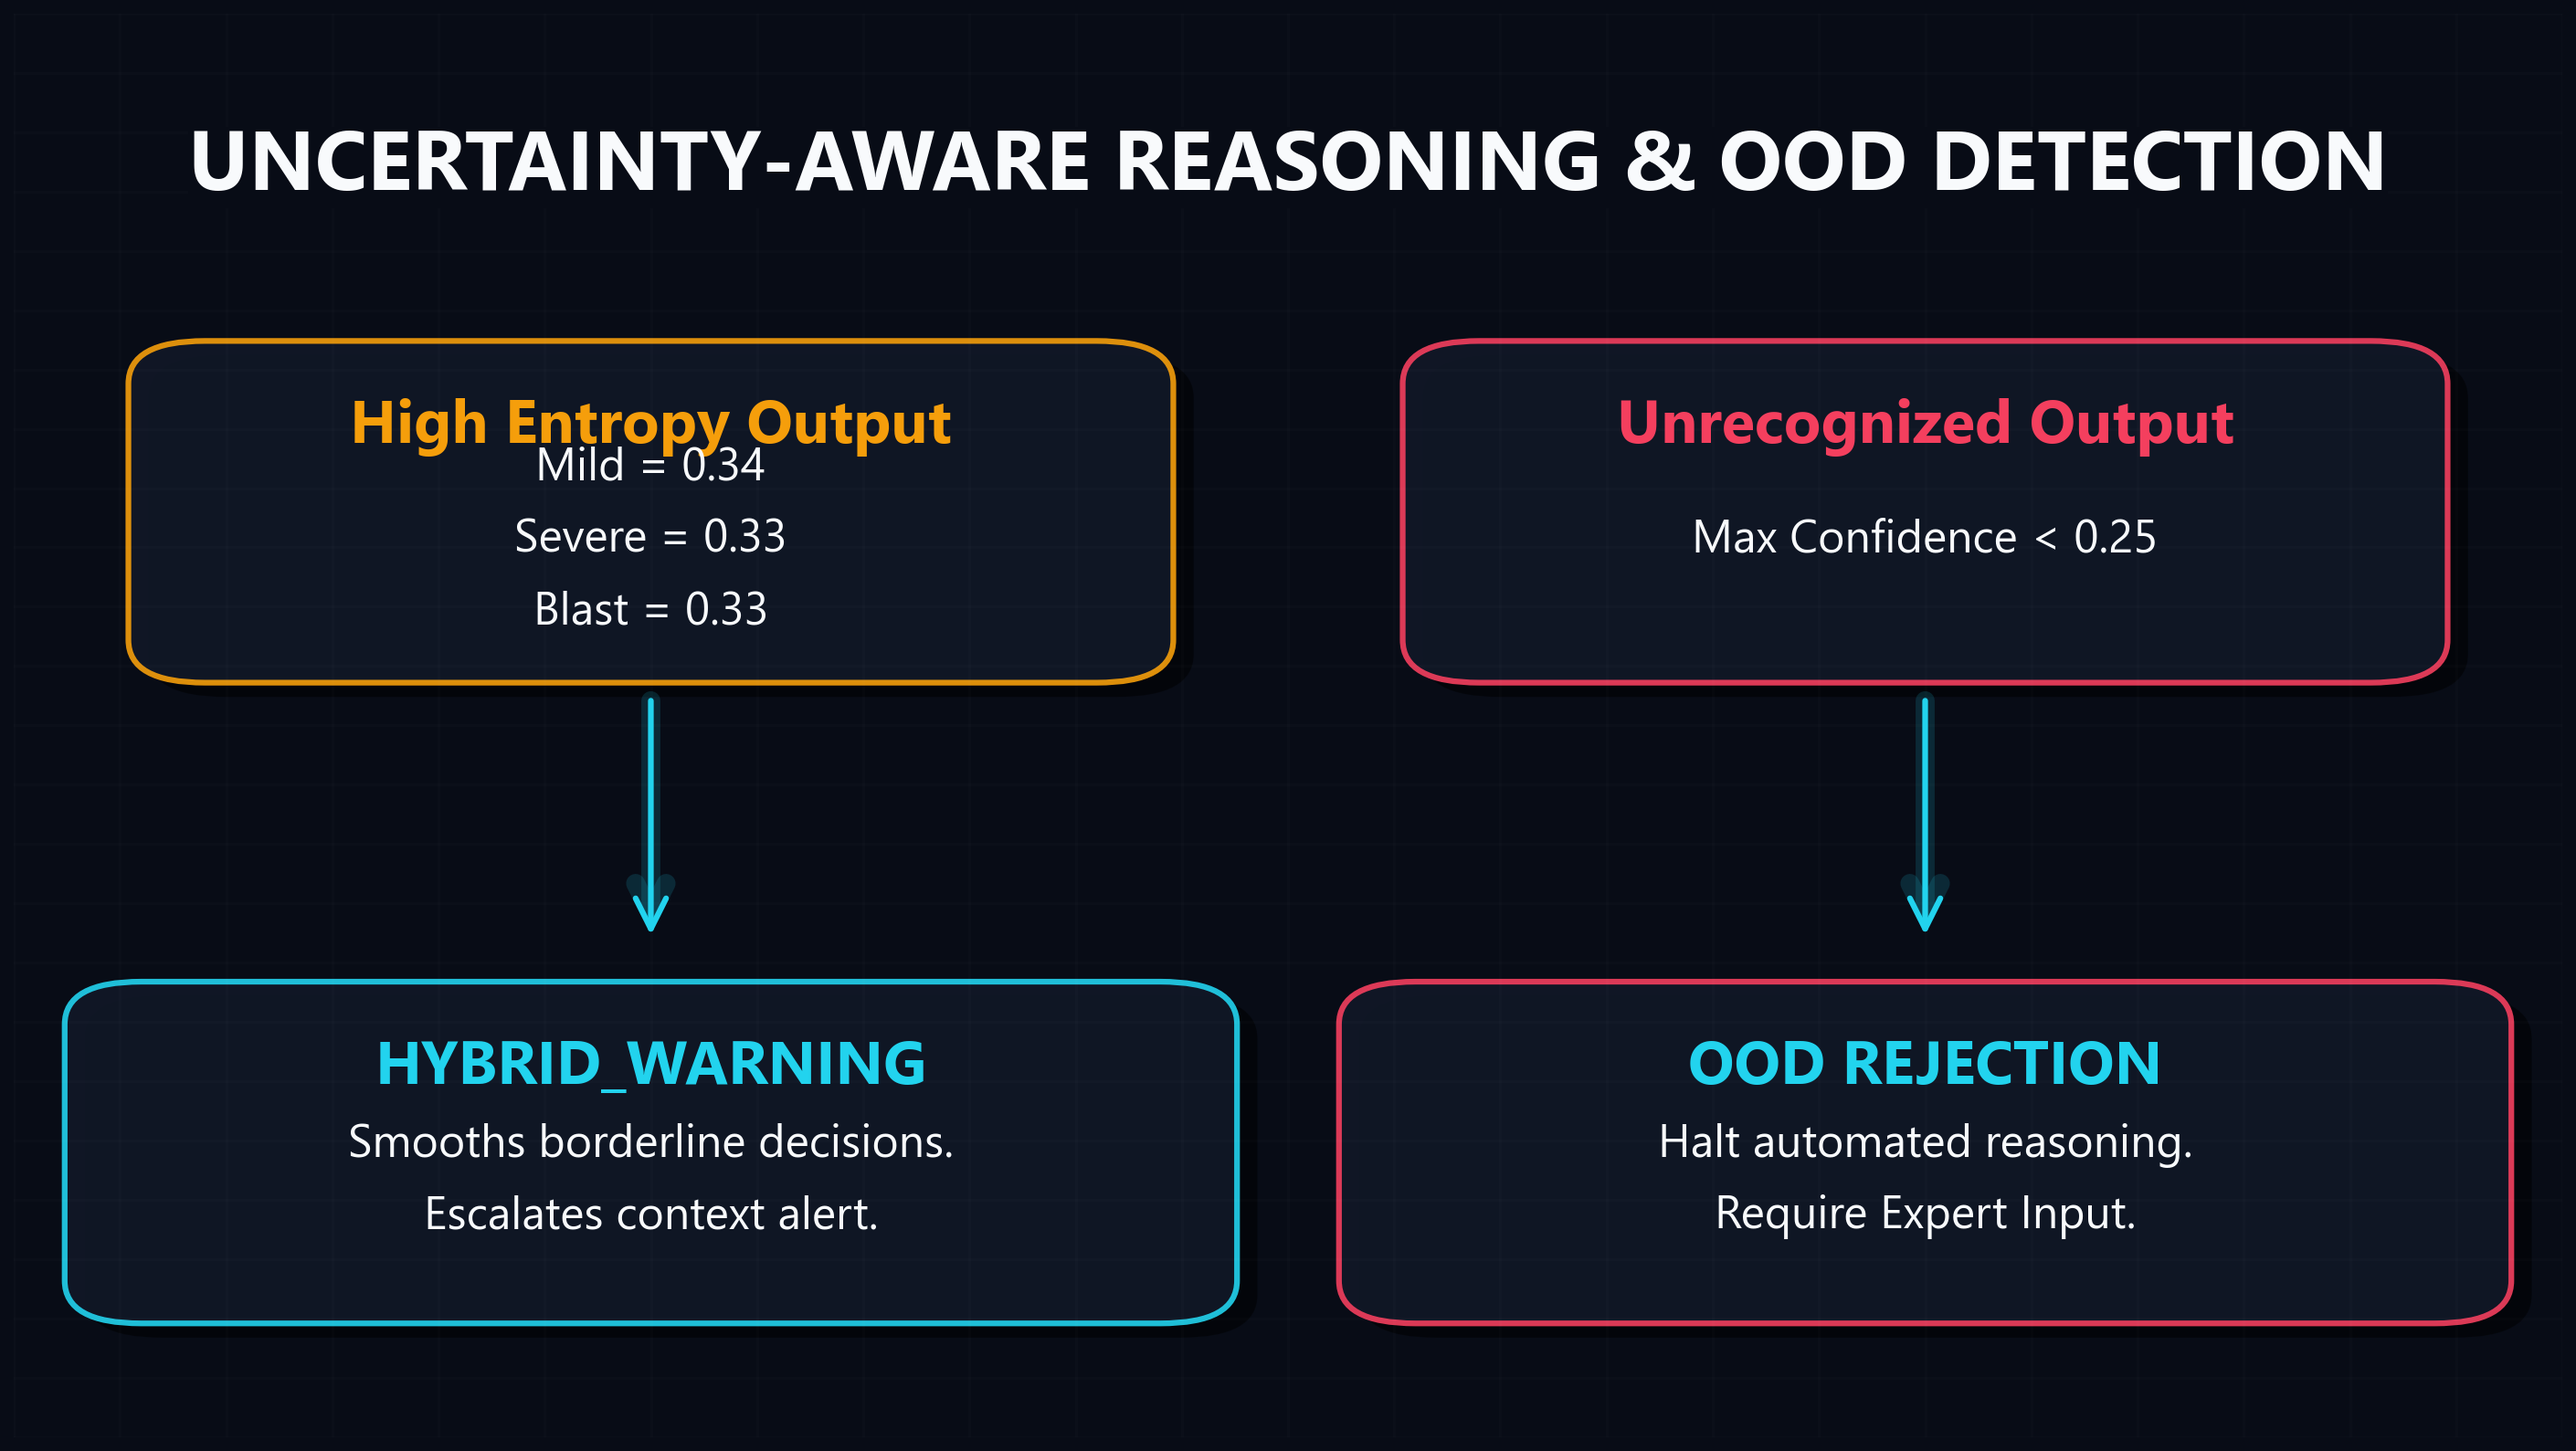
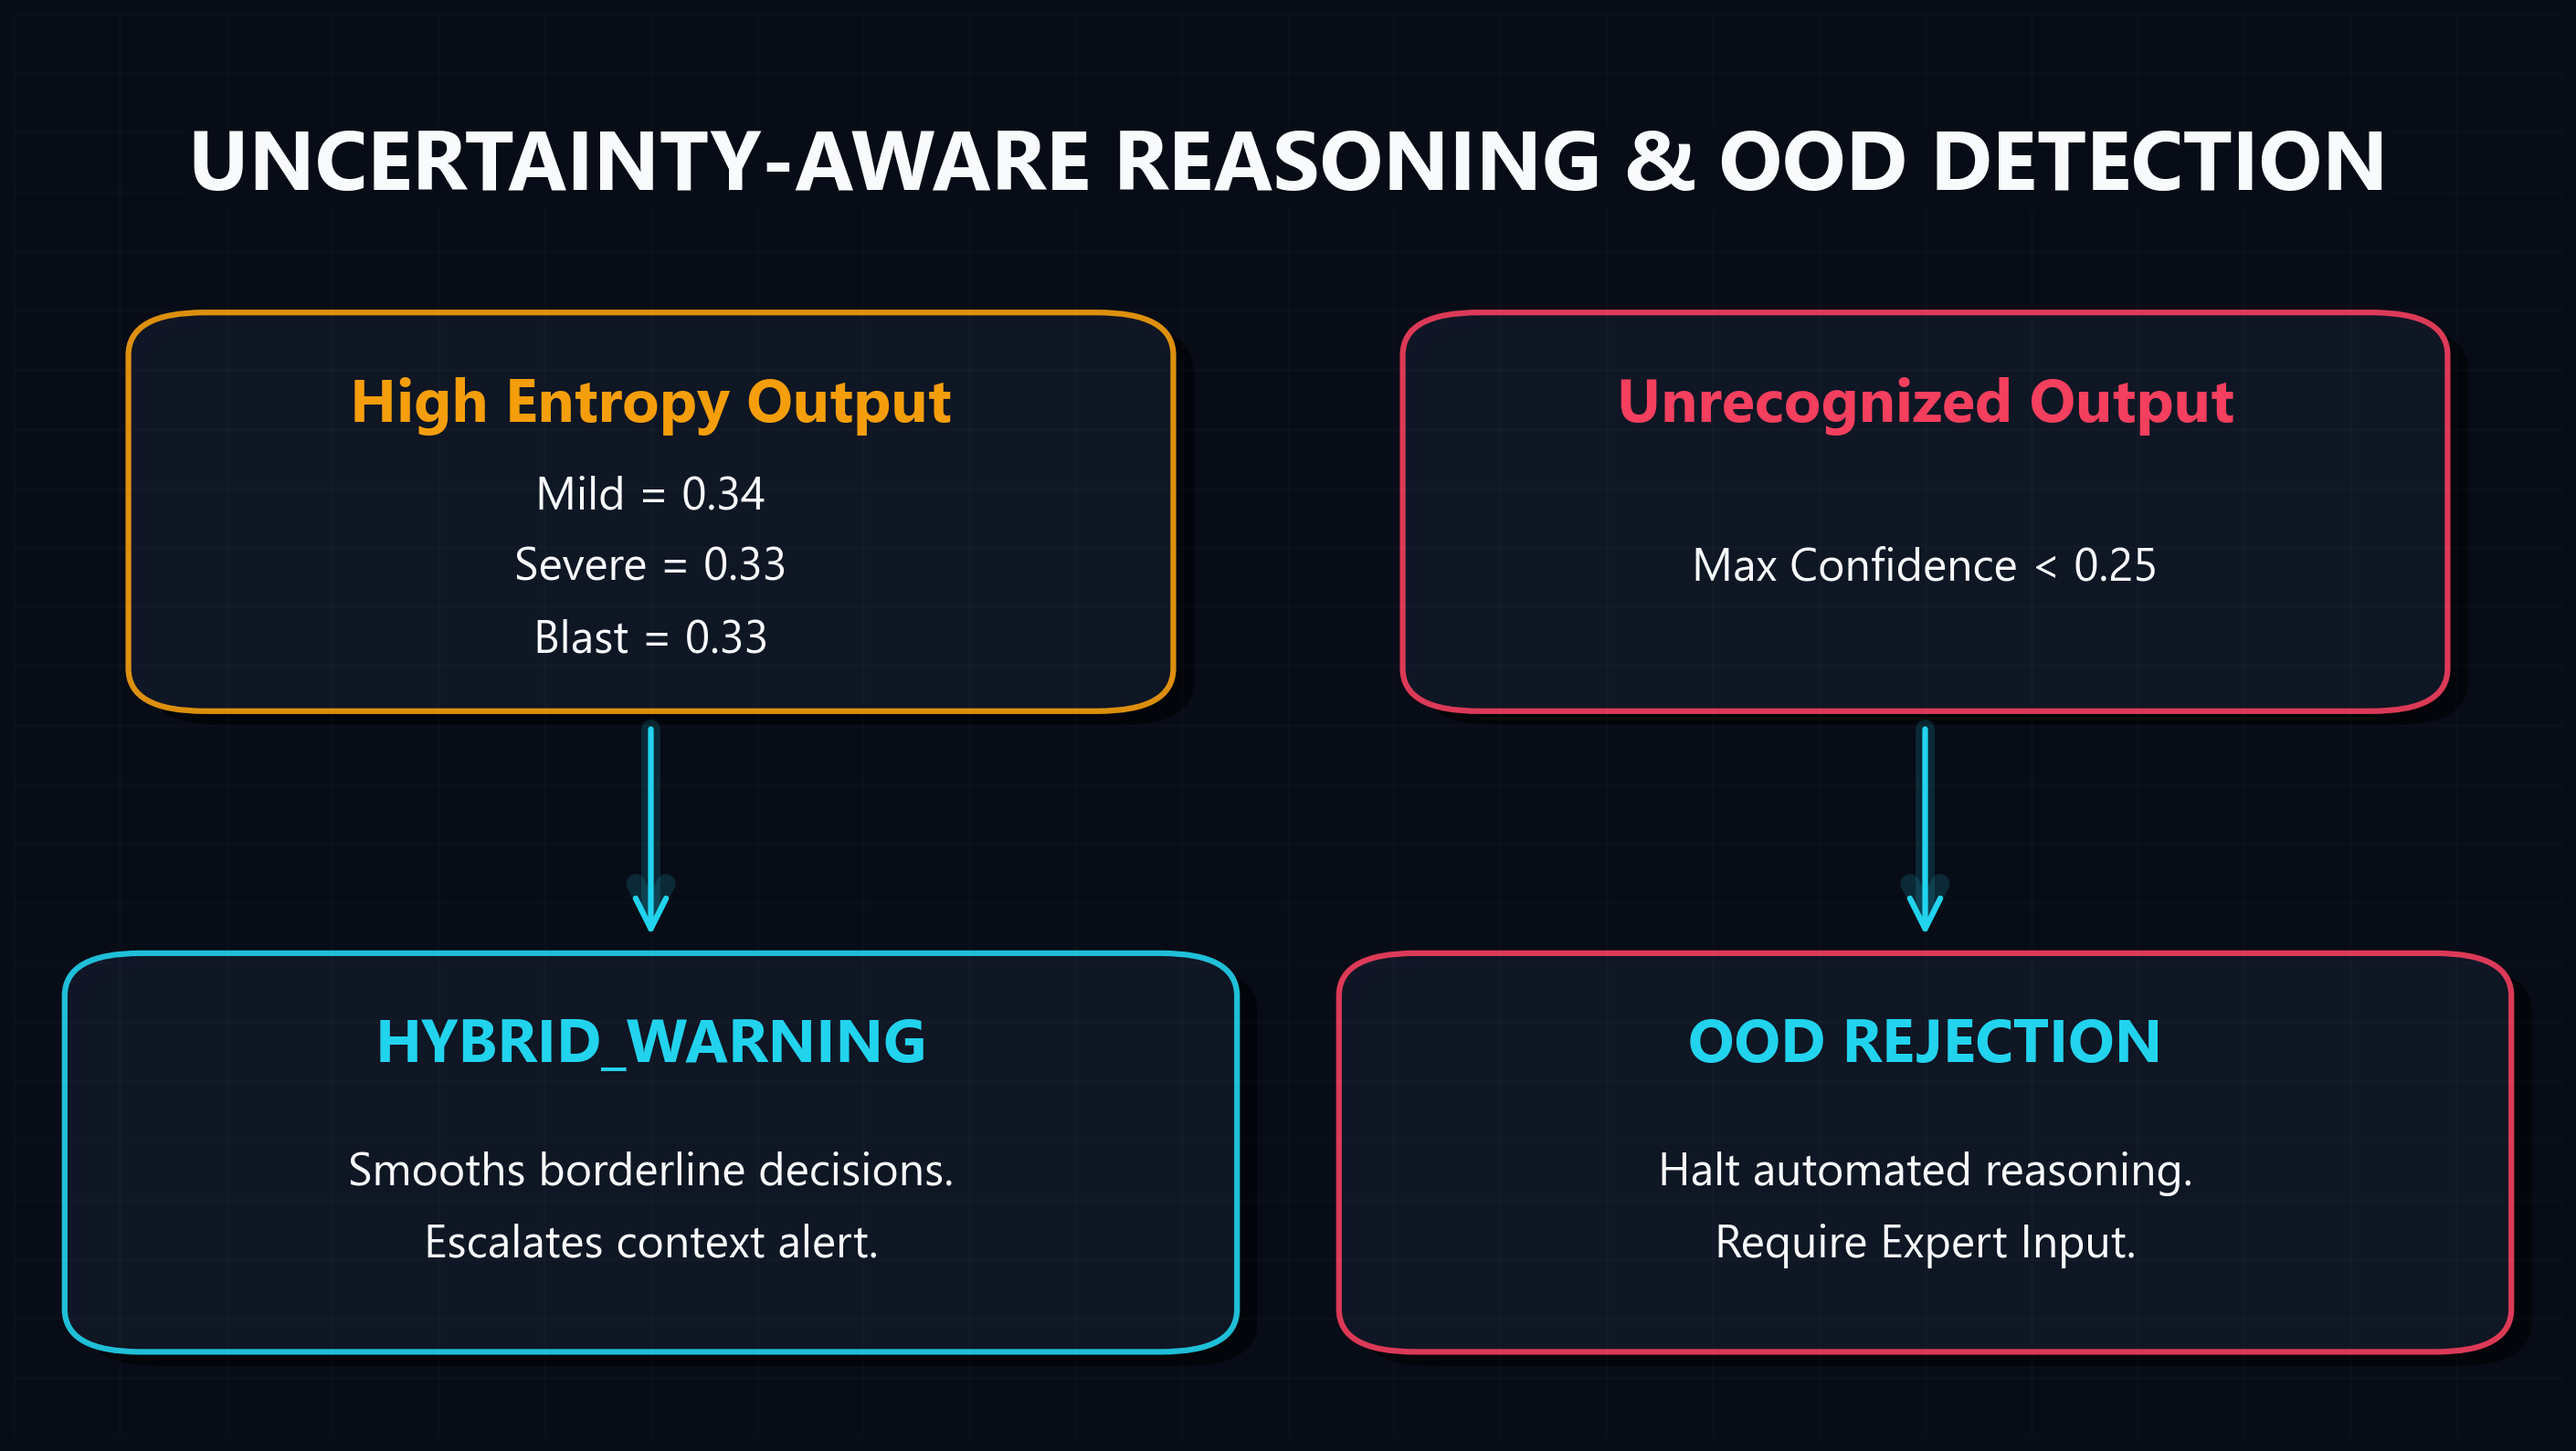
style: Fix overlapping text across all figures by increasing box heights and adjusting text positions

diff --git a/scripts/generate_academic_figures.py b/scripts/generate_academic_figures.py
@@ -63,11 +63,11 @@ def draw_glass_box(ax, x, y, width, height, text="", title="", bg=BOX_BG, border
     
     if title:
         # Title size: 30-36px equivalent
-        ax.text(x, y + height/2 - 0.01, title, ha='center', va='top', color=title_color, 
+        ax.text(x, y + height/2 - 0.015, title, ha='center', va='top', color=title_color, 
                 fontsize=fontsize+8, weight='bold')
         if text:
             # Body size: 24-28px equivalent, generous line spacing
-            ax.text(x, y - 0.02, text, ha='center', va='center', color=TEXT_MAIN, 
+            ax.text(x, y - 0.04, text, ha='center', va='center', color=TEXT_MAIN, 
                     fontsize=fontsize, linespacing=1.8)
     elif text:
         ax.text(x, y, text, ha='center', va='center', color=TEXT_MAIN, 
@@ -122,14 +122,14 @@ def fig_02_severity_pipeline():
     
     draw_glow_arrow(ax, 0.5, 0.61, 0.5, 0.51)
     
-    draw_glass_box(ax, 0.5, 0.40, 0.65, 0.1, title="2. Fuzzy Reasoning Zone", 
+    draw_glass_box(ax, 0.5, 0.40, 0.65, 0.16, title="2. Fuzzy Reasoning Zone", 
                    text="Transition region detected.\nModerate intermediate state activated via fuzzy interpolation.", border=CYAN_GLOW, fontsize=24)
     
     draw_glow_arrow(ax, 0.5, 0.28, 0.5, 0.19)
     
-    draw_glass_box(ax, 0.25, 0.10, 0.35, 0.08, title="3. Environment", text="Humidity: 90%   |   Temp: 35°C", border=EMERALD, fontsize=24)
+    draw_glass_box(ax, 0.25, 0.10, 0.35, 0.14, title="3. Environment", text="Humidity: 90%   |   Temp: 35°C", border=EMERALD, fontsize=24)
     draw_glow_arrow(ax, 0.47, 0.10, 0.65, 0.10, color=EMERALD)
-    draw_glass_box(ax, 0.80, 0.10, 0.15, 0.08, title="Final Alert", text="DANGER", border=DANGER_RED, fontsize=36, title_color=DANGER_RED)
+    draw_glass_box(ax, 0.80, 0.10, 0.15, 0.14, title="Final Alert", text="DANGER", border=DANGER_RED, fontsize=36, title_color=DANGER_RED)
 
     plt.savefig(os.path.join(OUTPUT_DIR, "fig_02_severity_pipeline.png"), bbox_inches='tight')
     plt.close()
@@ -229,13 +229,13 @@ def fig_06_ood_uncertainty():
     fig, ax = create_figure()
     draw_title(ax, "UNCERTAINTY-AWARE REASONING & OOD DETECTION")
     
-    draw_glass_box(ax, 0.25, 0.65, 0.35, 0.18, title="High Entropy Output", text="Mild = 0.34\nSevere = 0.33\nBlast = 0.33", border=WARNING_ORANGE, title_color=WARNING_ORANGE)
-    draw_glow_arrow(ax, 0.25, 0.52, 0.25, 0.35)
-    draw_glass_box(ax, 0.25, 0.20, 0.40, 0.18, title="HYBRID_WARNING", text="Smooths borderline decisions.\nEscalates context alert.", border=CYAN_GLOW)
+    draw_glass_box(ax, 0.25, 0.65, 0.35, 0.22, title="High Entropy Output", text="Mild = 0.34\nSevere = 0.33\nBlast = 0.33", border=WARNING_ORANGE, title_color=WARNING_ORANGE)
+    draw_glow_arrow(ax, 0.25, 0.50, 0.25, 0.35)
+    draw_glass_box(ax, 0.25, 0.20, 0.40, 0.22, title="HYBRID_WARNING", text="Smooths borderline decisions.\nEscalates context alert.", border=CYAN_GLOW)
     
-    draw_glass_box(ax, 0.75, 0.65, 0.35, 0.18, title="Unrecognized Output", text="Max Confidence < 0.25", border=DANGER_RED, title_color=DANGER_RED)
-    draw_glow_arrow(ax, 0.75, 0.52, 0.75, 0.35)
-    draw_glass_box(ax, 0.75, 0.20, 0.40, 0.18, title="OOD REJECTION", text="Halt automated reasoning.\nRequire Expert Input.", border=DANGER_RED)
+    draw_glass_box(ax, 0.75, 0.65, 0.35, 0.22, title="Unrecognized Output", text="Max Confidence < 0.25", border=DANGER_RED, title_color=DANGER_RED)
+    draw_glow_arrow(ax, 0.75, 0.50, 0.75, 0.35)
+    draw_glass_box(ax, 0.75, 0.20, 0.40, 0.22, title="OOD REJECTION", text="Halt automated reasoning.\nRequire Expert Input.", border=DANGER_RED)
 
     plt.savefig(os.path.join(OUTPUT_DIR, "fig_06_ood_uncertainty.png"), bbox_inches='tight')
     plt.close()
@@ -249,13 +249,13 @@ def fig_07_contextual_alert():
     draw_glow_arrow(ax, 0.5, 0.65, 0.25, 0.52)
     draw_glow_arrow(ax, 0.5, 0.65, 0.75, 0.52)
     
-    draw_glass_box(ax, 0.25, 0.42, 0.4, 0.15, title="CASE A: Low ERI", text="Humidity: 50% | Temp: 22°C", border="#10b981", title_color="#10b981")
+    draw_glass_box(ax, 0.25, 0.42, 0.4, 0.18, title="CASE A: Low ERI", text="Humidity: 50% | Temp: 22°C", border="#10b981", title_color="#10b981")
     draw_glow_arrow(ax, 0.25, 0.30, 0.25, 0.20)
-    draw_glass_box(ax, 0.25, 0.10, 0.35, 0.1, title="ATTENTION", text="Regular Monitoring", border=WARNING_ORANGE, title_color=WARNING_ORANGE)
+    draw_glass_box(ax, 0.25, 0.10, 0.35, 0.14, title="ATTENTION", text="Regular Monitoring", border=WARNING_ORANGE, title_color=WARNING_ORANGE)
     
-    draw_glass_box(ax, 0.75, 0.42, 0.4, 0.15, title="CASE B: High ERI", text="Humidity: 90% | Temp: 35°C", border=DANGER_RED, title_color=DANGER_RED)
+    draw_glass_box(ax, 0.75, 0.42, 0.4, 0.18, title="CASE B: High ERI", text="Humidity: 90% | Temp: 35°C", border=DANGER_RED, title_color=DANGER_RED)
     draw_glow_arrow(ax, 0.75, 0.30, 0.75, 0.20)
-    draw_glass_box(ax, 0.75, 0.10, 0.35, 0.1, title="DANGER", text="Immediate Action Required", border=DANGER_RED, title_color=DANGER_RED)
+    draw_glass_box(ax, 0.75, 0.10, 0.35, 0.14, title="DANGER", text="Immediate Action Required", border=DANGER_RED, title_color=DANGER_RED)
 
     plt.savefig(os.path.join(OUTPUT_DIR, "fig_07_contextual_alert.png"), bbox_inches='tight')
     plt.close()
